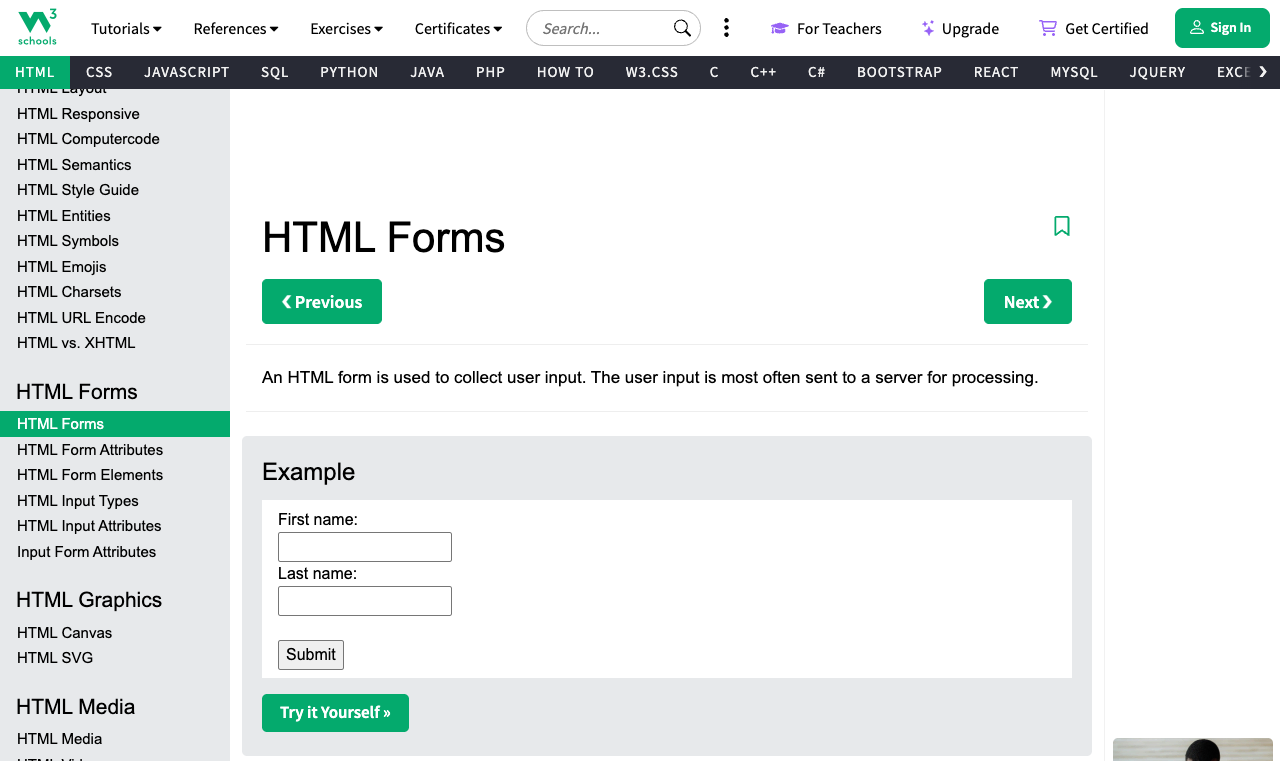
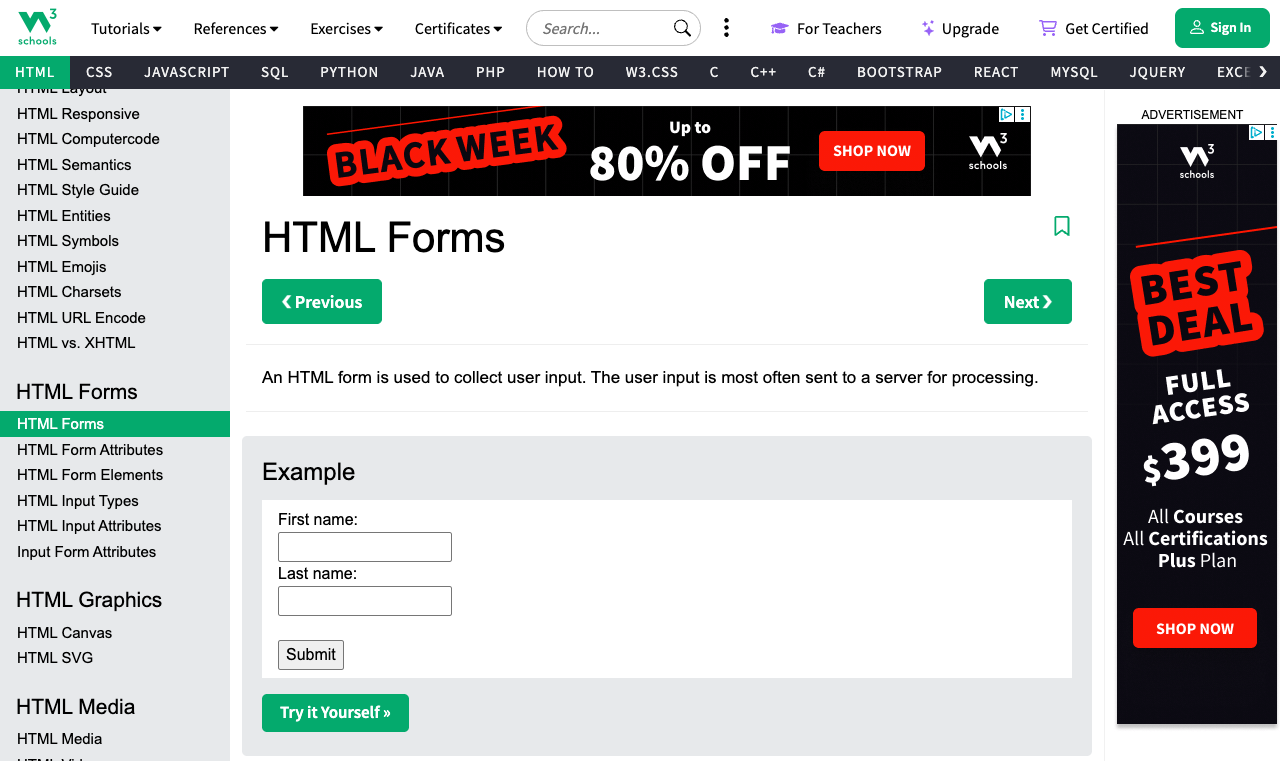
Trigger CI

Changed region(s): [[0.8438, 0.1209, 1.0, 1.0], [0.2188, 0.1209, 0.8125, 0.272]]

diff --git a/month3/week3/conftest.py b/month3/week3/conftest.py
@@ -1,11 +1,16 @@
-import os
 from datetime import datetime
 
 import pytest
+from pytest_html import extras
 from selenium import webdriver
 from selenium.webdriver.chrome.options import Options
 from selenium.webdriver.chrome.service import Service
 from webdriver_manager.chrome import ChromeDriverManager
+
+try:
+    from pytest_metadata.plugin import metadata_key
+except Exception:  # pytest-metadata not installed or legacy version
+    metadata_key = None
 
 
 @pytest.fixture
@@ -21,28 +26,55 @@ def driver(request):
 
     yield drv
 
-    # --- screenshot on failure ---
-    rep = getattr(request.node, "rep_call", None)
-    if rep and rep.failed:
-        os.makedirs("month3/week3/screenshots", exist_ok=True)
-        ts = datetime.now().strftime("%Y%m%d_%H%M%S")
-        path = f"month3/week3/screenshots/FAIL_{ts}.png"
-        drv.save_screenshot(path)
-
-        # Will show up in pytest-html as an extra text section
-        if hasattr(request.node, "add_report_section"):
-            request.node.add_report_section("call", "screenshot", f"Saved screenshot: {path}")
-
     drv.quit()
 
 
+# --- Add metadata to pytest-html reports ---
+def pytest_configure(config):
+    if metadata_key is not None:
+        metadata = config.stash.get(metadata_key, {})
+        config.stash[metadata_key] = metadata
+    else:
+        metadata = getattr(config, "_metadata", None)
+        if metadata is None:
+            metadata = {}
+            config._metadata = metadata
+
+    metadata.update(
+        {
+            "Author": "Jack Powell",
+            "Module": "Month 3 — Week 3",
+            "Focus": "Screenshots + CI/CD",
+            "Timestamp": datetime.now().strftime("%Y-%m-%d %H:%M:%S"),
+        }
+    )
+
+
+# --- Add custom text + image attachments ---
 @pytest.hookimpl(hookwrapper=True)
 def pytest_runtest_makereport(item, call):
-    """
-    Standard pytest pattern:
-    - Get the TestReport via hookwrapper
-    - Attach it to item as rep_setup/rep_call/rep_teardown
-    """
     outcome = yield
     rep = outcome.get_result()
-    setattr(item, "rep_" + rep.when, rep)
+
+    # Only modify reports for actual test phases
+    if rep.when != "call":
+        return
+
+    # pytest-html plugin hook
+    extra = getattr(rep, "extra", [])
+
+    should_capture = rep.failed or rep.outcome == "xfailed"
+    if should_capture:
+        extra.append(
+            extras.text(
+                "Test failed — review screenshot below.",
+                name="Failure Message",
+            )
+        )
+        # Screenshot if driver present
+        driver = item.funcargs.get("driver", None)
+        if driver:
+            encoded = driver.get_screenshot_as_base64()
+            extra.append(extras.image(encoded, name="Failure Screenshot"))
+
+    rep.extra = extra

diff --git a/month3/week3/test_custom_report.py b/month3/week3/test_custom_report.py
@@ -1,0 +1,16 @@
+import base64
+import os
+
+from pytest_html import extras
+
+
+def test_custom_report_attachment(extra):
+    extra.append(extras.text("Custom note from test", name="Note"))
+
+    screenshot = "month3/week3/screenshots/day3/04_result_page.png"
+    if os.path.exists(screenshot):
+        with open(screenshot, "rb") as img_file:
+            encoded_screenshot = base64.b64encode(img_file.read()).decode("ascii")
+        extra.append(extras.image(encoded_screenshot, name="Example Screenshot"))
+
+    assert True

diff --git a/month3/week3/test_fail_demo.py b/month3/week3/test_fail_demo.py
@@ -1,7 +1,7 @@
 import pytest
 
 
[email redacted](reason="Intentional failure demo for Selenium CI", strict=False)
[email redacted](reason="Intentional fail demo; exclude from CI pass criteria")
 def test_force_fail(driver):
     driver.get("https://example.com")
 

diff --git a/month3/week3/NOTES_CI_DAY4.md b/month3/week3/NOTES_CI_DAY4.md
@@ -1,0 +1,20 @@
+# Day 4 – CI Pipeline for Selenium (Month 3, Week 3)
+
+## What I accomplished:
+- Set up a GitHub Actions workflow for Selenium tests.
+- Installed Chrome + Chromedriver on the GitHub Ubuntu runner.
+- Ran tests headlessly in CI.
+- Added markers to failing and flaky tests to make the whole CL pipeline work.
+- Generated and downloaded an artifact report.
+
+## What I learned:
+- YAML provides instructions for 
+- CI runs remote Linux machines, not my laptop.
+- pytest-html artifacts upload only if the file exists (so use `if: always()`).
+- Flaky external websites should be skipped in CI.
+- Expected failures (`xfail`) and skips ('skipif') help stabilize the pipeline.
+
+## Next steps:
+- Add screenshots-on-failure to CI reports.
+- Optional: Add GitHub Secrets for real login flows.
+- Optional: Run the entire suite in CI once stabilized.